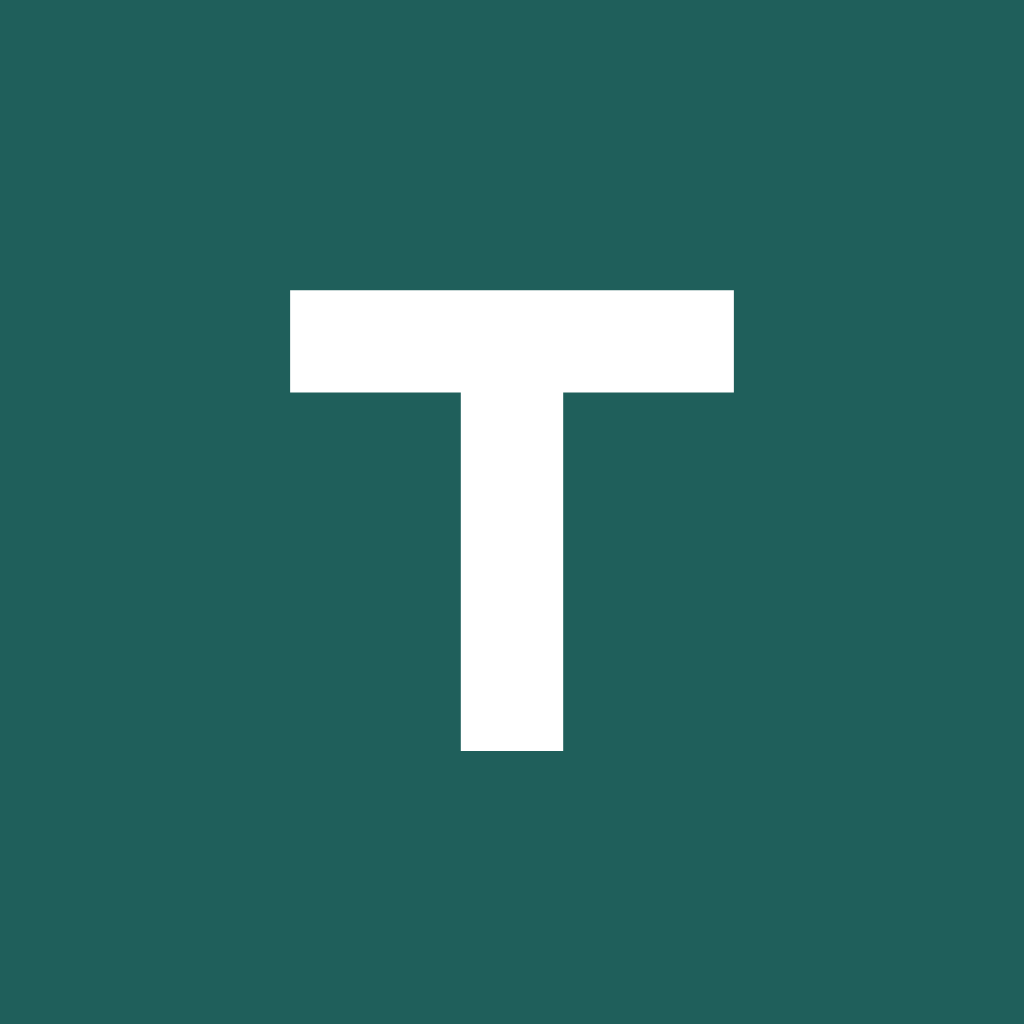
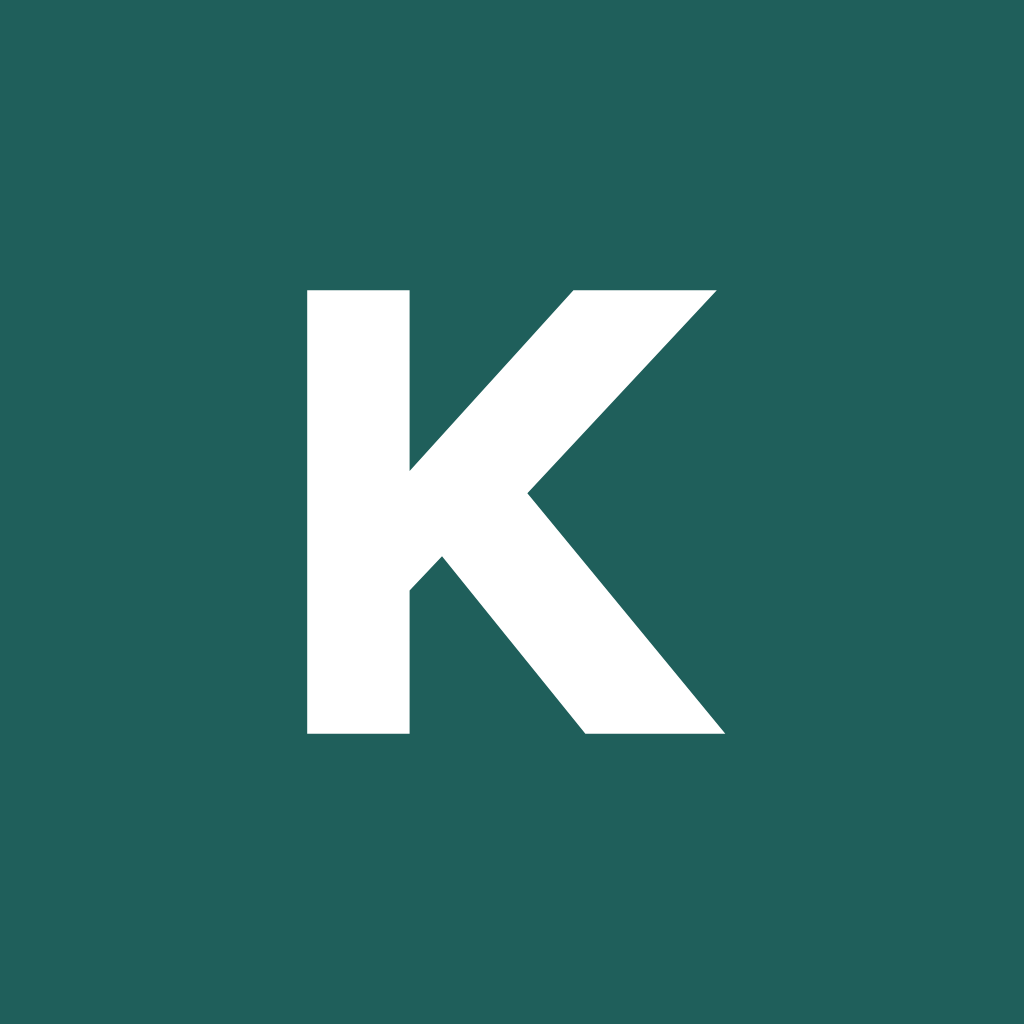
Rebrand from Tidepost to Kanosena
Brand defaults, crawler user agent, the K brand mark (favicon, logo asset,
review-pack app icons) and docs. Domains and infra names are unchanged.

Claude-Session: https://claude.ai/code/session_01Pm9XLxWCyA8mFQ642sudCH

Changed region(s): [[0.2812, 0.2812, 0.7188, 0.75]]

diff --git a/apps/frontend/src/ours/brand/rebrand.spec.ts b/apps/frontend/src/ours/brand/rebrand.spec.ts
@@ -5,34 +5,34 @@ const { rebrand } = require('./rebrand.cjs');
 
 describe('frontend build-time rebrand', () => {
   it('replaces the product name as a whole word', () => {
-    expect(rebrand("title: 'Postiz Calendar'", '/x/page.tsx', 'Tidepost')).toBe(
-      "title: 'Tidepost Calendar'"
+    expect(rebrand("title: 'Postiz Calendar'", '/x/page.tsx', 'Kanosena')).toBe(
+      "title: 'Kanosena Calendar'"
     );
-    expect(rebrand('"Welcome to Postiz"', '/x/en/translation.json', 'Tidepost')).toBe(
-      '"Welcome to Tidepost"'
+    expect(rebrand('"Welcome to Postiz"', '/x/en/translation.json', 'Kanosena')).toBe(
+      '"Welcome to Kanosena"'
     );
   });
 
   it('leaves code, URLs and package names alone', () => {
     for (const s of ['PostizApi', 'MyPostizAgent', 'postiz.com', '@postiz/node', 'gitroomhq/postiz-app']) {
-      expect(rebrand(s, '/x/a.tsx', 'Tidepost')).toBe(s);
+      expect(rebrand(s, '/x/a.tsx', 'Kanosena')).toBe(s);
     }
   });
 
   it('never rewrites third-party testimonials', () => {
     const src = 'I just found out about Postiz';
     expect(
-      rebrand(src, '/r/libraries/react-shared-libraries/src/helpers/testomonials.tsx', 'Tidepost')
+      rebrand(src, '/r/libraries/react-shared-libraries/src/helpers/testomonials.tsx', 'Kanosena')
     ).toBe(src);
   });
 
   it('points upstream legal links at ours', () => {
     const src = "href={`https://postiz.com/terms`} href={`https://postiz.com/privacy`}";
-    expect(rebrand(src, '/x/register.tsx', 'Tidepost')).toBe(
+    expect(rebrand(src, '/x/register.tsx', 'Kanosena')).toBe(
       'href={`/terms.html`} href={`/privacy.html`}'
     );
     expect(
-      rebrand('https://postiz.com/terms', '/x/a.tsx', 'Tidepost', {
+      rebrand('https://postiz.com/terms', '/x/a.tsx', 'Kanosena', {
         'https://postiz.com/terms': 'https://example.co.uk/terms',
       })
     ).toBe('https://example.co.uk/terms');

diff --git a/libraries/nestjs-libraries/src/ours/crawler/website.crawler.spec.ts b/libraries/nestjs-libraries/src/ours/crawler/website.crawler.spec.ts
@@ -109,14 +109,14 @@ describe('page picking and robots.txt', () => {
 
   it('follows the longest matching rule for our agent or *', () => {
     const robots = parseRobots(
-      'User-agent: TidepostBot\nDisallow: /a\nAllow: /a/b\n\nUser-agent: *\nDisallow: /',
-      'TidepostBot/1.0'
+      'User-agent: KanosenaBot\nDisallow: /a\nAllow: /a/b\n\nUser-agent: *\nDisallow: /',
+      'KanosenaBot/1.0'
     );
     expect(robots.isAllowed('/a/x')).toBe(false);
     expect(robots.isAllowed('/a/b/c')).toBe(true);
     expect(robots.isAllowed('/other')).toBe(true);
-    expect(parseRobots('User-agent: *\nDisallow: /', 'TidepostBot').isAllowed('/')).toBe(false);
-    expect(parseRobots('', 'TidepostBot').isAllowed('/')).toBe(true);
+    expect(parseRobots('User-agent: *\nDisallow: /', 'KanosenaBot').isAllowed('/')).toBe(false);
+    expect(parseRobots('', 'KanosenaBot').isAllowed('/')).toBe(true);
   });
 });
 

diff --git a/libraries/nestjs-libraries/src/ours/brand/brand.ts b/libraries/nestjs-libraries/src/ours/brand/brand.ts
@@ -1,6 +1,6 @@
 // OURS: brand name for text the backend sends to customers (emails).
 // Same env variable as the frontend, so one setting renames everything.
-const DEFAULT_BRAND_NAME = 'Tidepost';
+const DEFAULT_BRAND_NAME = 'Kanosena';
 
 export const brandName = (env: NodeJS.ProcessEnv = process.env) =>
   (env.NEXT_PUBLIC_BRAND_NAME || '').trim() || DEFAULT_BRAND_NAME;

diff --git a/libraries/nestjs-libraries/src/ours/brand/brand.spec.ts b/libraries/nestjs-libraries/src/ours/brand/brand.spec.ts
@@ -3,7 +3,7 @@ import { brandName, rebrandText } from '@gitroom/nestjs-libraries/ours/brand/bra
 
 describe('backend rebrand', () => {
   it('uses the env brand name, with a default', () => {
-    expect(brandName({})).toBe('Tidepost');
+    expect(brandName({})).toBe('Kanosena');
     expect(brandName({ NEXT_PUBLIC_BRAND_NAME: 'Acme' })).toBe('Acme');
   });
 

diff --git a/libraries/nestjs-libraries/src/ours/crawler/website.crawler.ts b/libraries/nestjs-libraries/src/ours/crawler/website.crawler.ts
@@ -45,7 +45,7 @@ export interface CrawlOptions {
 }
 
 export const crawlerUserAgent = () => {
-  const brand = (process.env.NEXT_PUBLIC_BRAND_NAME || 'Tidepost').replace(
+  const brand = (process.env.NEXT_PUBLIC_BRAND_NAME || 'Kanosena').replace(
     /[^a-z0-9]/gi,
     ''
   );

diff --git a/ours/docs/platform-review/meta.md b/ours/docs/platform-review/meta.md
@@ -23,7 +23,7 @@ Sources, checked 16/11/2026:
 
 **17/11/2026:** Meta no longer offers "API setup with Instagram login" for newly created apps. Claude in Chrome saw "API setup with Instagram login is not available for newer apps" on the second app. New apps only get the unified login, which runs through Facebook Login for Business. So there is no separate Instagram app ID or secret, and upstream's **Instagram (Standalone)** channel (`instagram-standalone`, `INSTAGRAM_APP_*`) can't be used.
 
-We use **one app, `Tidepost`** (Business type), with "Manage everything on your Page" and "Manage messaging and content on Instagram" → **API setup with Facebook Login**. It powers:
+We use **one app, `Kanosena`** (App ID 1614622909955028, created as "Tidepost" and renamed when the brand was chosen; Business type), with "Manage everything on your Page" and "Manage messaging and content on Instagram" → **API setup with Facebook Login**. It powers:
 - the Facebook Page channel (`facebook`);
 - the Instagram (Facebook Business) channel (`instagram`).
 
@@ -38,22 +38,22 @@ The code checks that **every** permission in its list was granted (`checkScopes`
 ### Facebook Page channel (`facebook.provider.ts`)
 
 **`pages_show_list`**
-> Tidepost is a social media scheduling service for small businesses. After the business owner logs in with Facebook from our "Add Channel" screen, we use pages_show_list to list the Facebook Pages they manage, so they can choose which Page Tidepost should publish to. We store only the chosen Page's ID, name and picture. The owner can disconnect the Page at any time, which deletes its tokens and details.
+> Kanosena is a social media scheduling service for small businesses. After the business owner logs in with Facebook from our "Add Channel" screen, we use pages_show_list to list the Facebook Pages they manage, so they can choose which Page Kanosena should publish to. We store only the chosen Page's ID, name and picture. The owner can disconnect the Page at any time, which deletes its tokens and details.
 
 **`business_management`**
 > Many small businesses manage their Facebook Page through a Meta business portfolio rather than directly. We use business_management only to read the Pages owned by the business portfolios the owner belongs to (/me/businesses and /{business-id}/owned_pages), so those Pages appear in the list they choose from. We do not create, change or read any other business assets.
 
 **`pages_manage_posts`**
-> This is the core of our product. The business owner approves each post in Tidepost (text with an optional photo or video), and at the scheduled time we publish it to the Page they connected. Nothing is ever published without the owner's explicit approval in our app. We also use it to show the owner the post's link once it is live.
+> This is the core of our product. The business owner approves each post in Kanosena (text with an optional photo or video), and at the scheduled time we publish it to the Page they connected. Nothing is ever published without the owner's explicit approval in our app. We also use it to show the owner the post's link once it is live.
 
 **`pages_manage_engagement`**
-> When writing a post in Tidepost, the owner can add a first comment (for example a link or extra details) using "Add comment" in the post editor. Right after the approved post is published, we publish that comment on the post as the Page. We only post comments the owner has written and approved; we do not reply to, hide or delete other people's comments.
+> When writing a post in Kanosena, the owner can add a first comment (for example a link or extra details) using "Add comment" in the post editor. Right after the approved post is published, we publish that comment on the post as the Page. We only post comments the owner has written and approved; we do not reply to, hide or delete other people's comments.
 
 **`pages_read_engagement`**
-> We read the connected Page's basic details (name, picture) and the engagement on posts published through Tidepost (reactions, comments and shares counts), so we can show the owner how their approved posts performed on our "What worked" screen and in each post's Statistics. It is also required by read_insights and pages_manage_posts.
+> We read the connected Page's basic details (name, picture) and the engagement on posts published through Kanosena (reactions, comments and shares counts), so we can show the owner how their approved posts performed on our "What worked" screen and in each post's Statistics. It is also required by read_insights and pages_manage_posts.
 
 **`read_insights`**
-> We read post-level insights (reach and impressions) for posts published through Tidepost, and show them to the business owner on our "What worked" screen and in each post's Statistics window. This helps them see which kinds of posts work for their business. Insights are only shown to members of that business's Tidepost account and are deleted when the Page is disconnected or the account is closed.
+> We read post-level insights (reach and impressions) for posts published through Kanosena, and show them to the business owner on our "What worked" screen and in each post's Statistics window. This helps them see which kinds of posts work for their business. Insights are only shown to members of that business's Kanosena account and are deleted when the Page is disconnected or the account is closed.
 
 ### Instagram (Facebook Business) channel (`instagram.provider.ts`)
 
@@ -61,13 +61,13 @@ The code checks that **every** permission in its list was granted (`checkScopes`
 > After the business owner logs in with Facebook from our "Add Channel" screen and picks "Instagram (Facebook Business)", we use instagram_basic to read the Instagram professional account linked to their Facebook Page (username, name and profile picture), so they can confirm it is the right account. We store only that account's ID, username and picture.
 
 **`instagram_content_publish`**
-> This is the core of our product. The business owner approves each Instagram post in Tidepost (a photo, carousel, Reel or Story with a caption), and at the scheduled time we publish it to their Instagram professional account. Nothing is ever published without the owner's explicit approval in our app.
+> This is the core of our product. The business owner approves each Instagram post in Kanosena (a photo, carousel, Reel or Story with a caption), and at the scheduled time we publish it to their Instagram professional account. Nothing is ever published without the owner's explicit approval in our app.
 
 **`instagram_manage_comments`**
 > When writing a post, the owner can add a first comment using "Add comment" in the post editor. Right after the approved post is published, we publish that comment on it. We only post comments the owner wrote and approved; we do not reply to, hide or delete other people's comments.
 
 **`instagram_manage_insights`**
-> We read insights (reach, likes, comments, saves) for posts published through Tidepost and show them to the business owner on our "What worked" screen and in each post's Statistics window, so they can see which kinds of posts work. Shown only to that business's Tidepost account; deleted when the account is disconnected or closed.
+> We read insights (reach, likes, comments, saves) for posts published through Kanosena and show them to the business owner on our "What worked" screen and in each post's Statistics window, so they can see which kinds of posts work. Shown only to that business's Kanosena account; deleted when the account is disconnected or closed.
 
 **`pages_show_list`, `pages_read_engagement`, `business_management`** (needed by the Instagram channel too)
 > An Instagram professional account is reached through the Facebook Page it is linked to. We use pages_show_list and business_management to find the Pages the owner manages (directly or through their business portfolio), and pages_read_engagement to read the linked Instagram account from that Page. We do not publish to the Page through this channel.
@@ -83,7 +83,7 @@ Replace `<password>` with the test password from the password manager when pasti
 > **Website:** https://app.steadylamp.com
 > **Test login:** review@steadylamp.com / `<password>`
 >
-> Tidepost lets a small business owner approve social media posts, which we then publish at the planned time. Nothing is published without the owner's approval.
+> Kanosena lets a small business owner approve social media posts, which we then publish at the planned time. Nothing is published without the owner's approval.
 >
 > **Connect a Facebook Page (pages_show_list, business_management)**
 > 1. Log in at https://app.steadylamp.com/auth/login with the test login.
@@ -98,7 +98,7 @@ Replace `<password>` with the test password from the password manager when pasti
 > 8. Open the Page on Facebook to see the post and comment.
 >
 > **See results (pages_read_engagement, read_insights)**
-> 9. Back in Tidepost, open the post in the calendar and click "Statistics" to see reach and engagement read from the Page. Insights can take a few minutes to appear after publishing.
+> 9. Back in Kanosena, open the post in the calendar and click "Statistics" to see reach and engagement read from the Page. Insights can take a few minutes to appear after publishing.
 > 10. Click "What worked" in the left menu to see the same results summarised.
 >
 > **Instagram (instagram_basic, instagram_content_publish, instagram_manage_comments, instagram_manage_insights)**
@@ -129,5 +129,5 @@ Meta asks these during App Review and Data Use Checkup. "Platform Data" means an
 
 ## Business Verification and Tech Provider
 
-- **Business Verification** (Business Settings → Security Centre → Start verification). Needs: legal name Steady Lamp Ltd, company number 17533499, registered office 128 City Road, London, EC1V 2NX, phone **[FILL IN]**, website `https://steadylamp.com` (add the Tidepost mention first, see README item 2), and a domain or email check (support@steadylamp.com, or DNS/meta-tag domain verification of steadylamp.com). Meta may ask for a Companies House certificate.
+- **Business Verification** (Business Settings → Security Centre → Start verification). Needs: legal name Steady Lamp Ltd, company number 17533499, registered office 128 City Road, London, EC1V 2NX, phone **[FILL IN]**, website `https://steadylamp.com` (add the Kanosena mention first, see README item 2), and a domain or email check (support@steadylamp.com, or DNS/meta-tag domain verification of steadylamp.com). Meta may ask for a Companies House certificate.
 - **Tech Provider access verification**: App Dashboard → "Become a Tech Provider" (or Review → Access verification). Answers: we build a social media scheduling service that other businesses use to publish to their own Facebook Pages and Instagram accounts; we access their data only to publish posts they approved and show them their own results.

diff --git a/ours/docs/platform-review/linkedin.md b/ours/docs/platform-review/linkedin.md
@@ -41,13 +41,13 @@ Our code requests, on one app, and refuses to connect if any is missing:
 | Legal name | Steady Lamp Ltd |
 | Registered address | 128 City Road, London, EC1V 2NX |
 | Business email | support@steadylamp.com |
-| Website | https://steadylamp.com (add a Tidepost mention first) and the product at https://app.steadylamp.com/about.html |
+| Website | https://steadylamp.com (add a Kanosena mention first) and the product at https://app.steadylamp.com/about.html |
 | Privacy policy | https://app.steadylamp.com/privacy.html |
 | Use cases | **Page Management** and **Page Analytics**. Not Executive Management, Employee Advocacy or Brand Engagement |
 | Use case description | See below |
 
 **Use case description:**
-> Tidepost is a social media service for UK small businesses (1–20 staff), run by Steady Lamp Ltd. A business owner connects their company's LinkedIn Page through LinkedIn's OAuth flow. Tidepost drafts posts from the business's own website, the owner approves, edits or rejects each one, and approved posts are published to the LinkedIn Page at the planned time. Nothing is published without the owner's explicit approval. We then show the owner how each published post performed (impressions, reactions, comments and shares counts) so they can see what works. We use rw_organization_admin to list the Pages the member administers so they can choose one, and to read Page and post analytics; w_organization_social to publish approved posts as the Page; r_organization_social to read the published posts' social action counts. We do not message members, scrape profiles, target ads or sell or share LinkedIn data.
+> Kanosena is a social media service for UK small businesses (1–20 staff), run by Steady Lamp Ltd. A business owner connects their company's LinkedIn Page through LinkedIn's OAuth flow. Kanosena drafts posts from the business's own website, the owner approves, edits or rejects each one, and approved posts are published to the LinkedIn Page at the planned time. Nothing is published without the owner's explicit approval. We then show the owner how each published post performed (impressions, reactions, comments and shares counts) so they can see what works. We use rw_organization_admin to list the Pages the member administers so they can choose one, and to read Page and post analytics; w_organization_social to publish approved posts as the Page; r_organization_social to read the published posts' social action counts. We do not message members, scrape profiles, target ads or sell or share LinkedIn data.
 
 ## Standard tier form answers
 
@@ -55,7 +55,7 @@ Our code requests, on one app, and refuses to connect if any is missing:
 > Steady Lamp Ltd is a UK private limited company (company number 17533499, incorporated 21/10/2026) that builds software for small businesses. Contact: support@steadylamp.com.
 
 **Product overview:**
-> Tidepost (working name) plans, writes and schedules social media posts for small businesses, with the promise "You approve. We handle the rest." It builds a business profile from the company's own website, with a source for every fact, drafts a week of posts with simple branded graphics, and publishes only the posts the owner approves to their connected Facebook Page, Instagram account and LinkedIn Page. It is open source (https://github.com/calvin22580/postiz-app).
+> Kanosena plans, writes and schedules social media posts for small businesses, with the promise "You approve. We handle the rest." It builds a business profile from the company's own website, with a source for every fact, drafts a week of posts with simple branded graphics, and publishes only the posts the owner approves to their connected Facebook Page, Instagram account and LinkedIn Page. It is open source (https://github.com/calvin22580/postiz-app).
 
 **Test credentials:**
 > https://app.steadylamp.com, user review@steadylamp.com, password `<password>` (paste from the password manager). The account has a LinkedIn Page connected **[only once that is true]** and a "Sandbox" channel, which is a simulated channel that never publishes anywhere.
@@ -66,7 +66,7 @@ Our code requests, on one app, and refuses to connect if any is missing:
 > 2. To connect a Page: "Add Channel" → "LinkedIn Page" → LinkedIn OAuth → choose the Page.
 > 3. To post: "Create Post" → select the LinkedIn Page avatar → type text, optionally "Insert Media" → "Post now". The post appears on the LinkedIn Page.
 > 4. Analytics: open the post in the calendar → "Statistics", or open "What worked" in the left menu.
-> 5. Comments by members are not displayed in Tidepost, so the comment and commenter-profile test cases don't apply.
+> 5. Comments by members are not displayed in Kanosena, so the comment and commenter-profile test cases don't apply.
 
 ## Screencast script (one video, narrated)
 
@@ -75,15 +75,15 @@ LinkedIn: high resolution, downloadable (upload the MP4 to a link that downloads
 Same set-up as the Meta screencasts (clean Chrome window, macOS recording). Record after the Development tier is granted and the LinkedIn keys are on the live site.
 
 **Page Management**
-1. Narrate: "This is Tidepost, a social media service for small businesses by Steady Lamp Ltd. A business owner logs in." Log in.
+1. Narrate: "This is Kanosena, a social media service for small businesses by Steady Lamp Ltd. A business owner logs in." Log in.
 2. **Test case 1, OAuth:** "The owner connects their company's LinkedIn Page." Add Channel → LinkedIn Page → full LinkedIn consent screen, showing the permissions → Allow → choose the Page from the list → Page appears in the sidebar.
-3. **Test case 2, post to the Page:** "The owner writes a post, or approves one from their weekly plan, and Tidepost publishes it to the Page." Create Post → select the Page → test text plus a photo → Post now. Then open the Page on linkedin.com and show the post.
+3. **Test case 2, post to the Page:** "The owner writes a post, or approves one from their weekly plan, and Kanosena publishes it to the Page." Create Post → select the Page → test text plus a photo → Post now. Then open the Page on linkedin.com and show the post.
 4. Optional: "Weekly posts" → Approve one draft → show it scheduled in the calendar. Narrate: "Nothing is published without the owner's approval."
-5. **Test cases 3 and 4:** narrate "Tidepost does not display comments or commenter profile data from LinkedIn."
+5. **Test cases 3 and 4:** narrate "Kanosena does not display comments or commenter profile data from LinkedIn."
 6. **Test case 5:** narrate "We store only the Page's ID, name and logo and the member's name and picture for the connection. No other member personal data is used."
 
 **Page Analytics**
-7. **Test case 2, post performance:** "Tidepost shows how each post performed." Open the post → Statistics (impressions, reactions, comments, shares). Then "What worked".
+7. **Test case 2, post performance:** "Kanosena shows how each post performed." Open the post → Statistics (impressions, reactions, comments, shares). Then "What worked".
 8. **Test case 3:** narrate "We show only totals. No profile data of members who engaged is displayed."
 
 Keep it under 5 minutes.

diff --git a/ours/docs/platform-review/chrome-linkedin.md b/ours/docs/platform-review/chrome-linkedin.md
@@ -7,7 +7,7 @@ Important: LinkedIn does not let us re-apply with the same app after a rejection
 ---
 
 ```text
-You are setting up a LinkedIn developer app for Tidepost, a social media scheduling service run by Steady Lamp Ltd (UK). Work in a new tab. Rules:
+You are setting up a LinkedIn developer app for Kanosena, a social media scheduling service run by Steady Lamp Ltd (UK). Work in a new tab. Rules:
 - Do NOT submit any access request form (Community Management API, Standard tier) without showing Calvin the filled-in form and getting a "yes" in chat. A rejection means starting again with a new app.
 - Never type a secret into chat. Copy the client secret only into the Cloudflare form in step 6.
 - If anything asks for a detail not given here (phone, or anything else not listed), stop and ask Calvin.
@@ -16,7 +16,7 @@ You are setting up a LinkedIn developer app for Tidepost, a social media schedul
 - If a screen differs from these steps, do the closest equivalent and tell Calvin.
 
 Values:
-- App name: Tidepost   (must not contain "Linked", "In", "LinkedIn" or "Microsoft")
+- App name: Kanosena   (must not contain "Linked", "In", "LinkedIn" or "Microsoft")
 - LinkedIn Page: Steady Lamp Ltd (the company Page Calvin super-admins)
 - Privacy policy URL: https://app.steadylamp.com/privacy.html
 - Website: https://app.steadylamp.com/about.html
@@ -30,7 +30,7 @@ STEP 1. Page check
 Confirm a LinkedIn Page for Steady Lamp Ltd exists and Calvin's account is a super admin (Page → Admin tools → Manage admins). If not, stop and tell Calvin.
 
 STEP 2. Create the app
-linkedin.com/developers/apps → Create app. Name Tidepost, LinkedIn Page Steady Lamp Ltd, privacy policy URL above, logo, accept the legal agreement. Create.
+linkedin.com/developers/apps → Create app. Name Kanosena, LinkedIn Page Steady Lamp Ltd, privacy policy URL above, logo, accept the legal agreement. Create.
 
 STEP 3. Verify the app with the Page
 Settings tab → Verify → generate the verification URL. Calvin's account is a Page super admin, so open the URL and approve it. Confirm the Settings tab shows the app as verified.
@@ -44,7 +44,7 @@ a. Find "Community Management API" → Request access. Open the form and FILL IT
    - Legal name: Steady Lamp Ltd. Registered address: 128 City Road, London, EC1V 2NX. Business email: support@steadylamp.com (verify it if asked; Calvin may need to click an email link). Website: https://steadylamp.com. Privacy policy: https://app.steadylamp.com/privacy.html
    - Use cases: Page Management and Page Analytics only.
    - Use case description (paste exactly):
-     "Tidepost is a social media service for UK small businesses (1–20 staff), run by Steady Lamp Ltd. A business owner connects their company's LinkedIn Page through LinkedIn's OAuth flow. Tidepost drafts posts from the business's own website, the owner approves, edits or rejects each one, and approved posts are published to the LinkedIn Page at the planned time. Nothing is published without the owner's explicit approval. We then show the owner how each published post performed (impressions, reactions, comments and shares counts) so they can see what works. We use rw_organization_admin to list the Pages the member administers so they can choose one, and to read Page and post analytics; w_organization_social to publish approved posts as the Page; r_organization_social to read the published posts' social action counts. We do not message members, scrape profiles, target ads or sell or share LinkedIn data."
+     "Kanosena is a social media service for UK small businesses (1–20 staff), run by Steady Lamp Ltd. A business owner connects their company's LinkedIn Page through LinkedIn's OAuth flow. Kanosena drafts posts from the business's own website, the owner approves, edits or rejects each one, and approved posts are published to the LinkedIn Page at the planned time. Nothing is published without the owner's explicit approval. We then show the owner how each published post performed (impressions, reactions, comments and shares counts) so they can see what works. We use rw_organization_admin to list the Pages the member administers so they can choose one, and to read Page and post analytics; w_organization_social to publish approved posts as the Page; r_organization_social to read the published posts' social action counts. We do not message members, scrape profiles, target ads or sell or share LinkedIn data."
    Take a screenshot of the filled form for Calvin, then STOP and ask Calvin whether to submit.
 b. Note whether "Sign In with LinkedIn using OpenID Connect" and "Share on LinkedIn" can be added alongside Community Management API. If the page says one disables or excludes the other, do NOT add it; just report the exact wording. If they are self-serve and compatible, add them.
 c. Do NOT add "Advertising API" or any other product.

diff --git a/ours/docs/platform-review/meta-screencasts.md b/ours/docs/platform-review/meta-screencasts.md
@@ -6,7 +6,7 @@ Meta wants one screencast per permission showing "the end-to-end user experience
 
 - Live site has the Meta app IDs and secrets (see `settings.md`) and has been redeployed.
 - Calvin's Facebook account has a role (admin) on the Meta app, so Development mode allows every permission.
-- Facebook Page and linked Instagram professional account ready **[FILL IN: names]**. Use a test post text that is plainly a test, e.g. "Test post from Tidepost: please ignore". It goes live on the real Page, so Calvin approves that wording before recording.
+- Facebook Page and linked Instagram professional account ready **[FILL IN: names]**. Use a test post text that is plainly a test, e.g. "Test post from Kanosena: please ignore". It goes live on the real Page, so Calvin approves that wording before recording.
 - Browser: a clean Chrome window at 1280×800 or larger, English UI, no other tabs or bookmarks bar showing, zoom 100%.
 - Record with macOS screen recording (Cmd+Shift+5, "Record selected portion", the Chrome window only). Export MP4.
 - Add captions afterwards (iMovie titles, or any editor), one short line per step, as below. Captions are in quotes.
@@ -15,12 +15,12 @@ Meta wants one screencast per permission showing "the end-to-end user experience
 ## Video 1: Connecting a Facebook Page
 **Attach to:** `pages_show_list`, `business_management`
 
-1. Start on https://app.steadylamp.com/auth/login. Caption: "Tidepost: a small business owner logs in".
+1. Start on https://app.steadylamp.com/auth/login. Caption: "Kanosena: a small business owner logs in".
 2. Log in with review@steadylamp.com. The calendar opens.
 3. Click "Add Channel". Caption: "The owner connects their Facebook Page".
 4. Click "Facebook Page". The Facebook login dialog opens. Caption: "Facebook Login: the owner grants access".
 5. Go through the dialog, showing the permissions screen, and allow.
-6. Back in Tidepost, the list of Pages appears. Caption: "pages_show_list: Pages the owner manages. Pages owned through a business portfolio are found with business_management". If possible, show a Page that comes from a business portfolio.
+6. Back in Kanosena, the list of Pages appears. Caption: "pages_show_list: Pages the owner manages. Pages owned through a business portfolio are found with business_management". If possible, show a Page that comes from a business portfolio.
 7. Choose the Page. It appears in the left sidebar with its name and picture. Caption: "The Page is connected. Only its ID, name and picture are stored".
 
 ## Video 2: Publishing to the Page with a first comment
@@ -29,8 +29,8 @@ Meta wants one screencast per permission showing "the end-to-end user experience
 1. Start logged in, Page already connected. Caption: "The owner writes a post and approves it".
 2. Click "Create Post". Select the Facebook Page avatar.
 3. Type the test text. Click "Insert Media" and add one photo.
-4. Click "Add comment" and type "First comment from Tidepost: please ignore". Caption: "pages_manage_engagement: a first comment the owner wrote".
-5. Click "Post now". Caption: "pages_manage_posts: Tidepost publishes the approved post to the Page".
+4. Click "Add comment" and type "First comment from Kanosena: please ignore". Caption: "pages_manage_engagement: a first comment the owner wrote".
+5. Click "Post now". Caption: "pages_manage_posts: Kanosena publishes the approved post to the Page".
 6. Show the post in the calendar with its status.
 7. Open the Page on facebook.com in the same window. Show the post and the comment underneath, posted as the Page. Caption: "The post and first comment are live on the Page".
 8. (Optional, 20 seconds) Open "Weekly posts", show a drafted post, click Approve. Caption: "Normally posts come from the weekly plan. Nothing is published until the owner approves it".
@@ -52,7 +52,7 @@ Record at least an hour after video 2 (insights take time; the app rechecks afte
 3. Click "Create Post", select the Instagram avatar, add a photo, a caption, and "Add comment" with a comment.
 4. Click "Post now". Caption: "instagram_content_publish and instagram_manage_comments: the approved post and its first comment".
 5. Open the account on instagram.com, show the post and comment.
-6. (After an hour, can be a cut) Back in Tidepost: post "Statistics", then "What worked". Caption: "instagram_manage_insights: results for this post".
+6. (After an hour, can be a cut) Back in Kanosena: post "Statistics", then "What worked". Caption: "instagram_manage_insights: results for this post".
 
 ## Narration (optional)
 

diff --git a/ours/docs/platform-review/README.md b/ours/docs/platform-review/README.md
@@ -17,7 +17,7 @@ Everything needed to set up the developer apps and submit the reviews for Facebo
 | [linkedin.md](linkedin.md) | LinkedIn: products, form answers, use cases, reviewer instructions, screencast script |
 | [chrome-meta.md](chrome-meta.md) | Prompt to paste into Claude in Chrome after logging in to Meta |
 | [chrome-linkedin.md](chrome-linkedin.md) | Prompt to paste into Claude in Chrome after logging in to LinkedIn |
-| `assets/app-icon-1024.png`, `assets/app-icon-300.png` | Placeholder app icon (Meta wants 1024×1024; LinkedIn wants a square logo) |
+| `assets/app-icon-1024.png`, `assets/app-icon-300.png` | Kanosena app icon (Meta wants 1024×1024; LinkedIn wants a square logo) |
 
 ## The order
 
@@ -32,13 +32,13 @@ Everything needed to set up the developer apps and submit the reviews for Facebo
 |---|---|
 | No public page describing the product. `/` shows "Registration is disabled" with no privacy or terms links. Meta and LinkedIn both ask for a website, and reviewers look for the privacy policy | **Fixed:** new public page `/about.html` (what the service does, what each platform is used for, links to log-in and legal pages). Use it as the app's website URL |
 | Log-in page had no privacy, terms or data deletion links | **Fixed:** links added under the panel on the log-in and sign-up pages |
-| No app icon at the sizes the dashboards ask for | **Fixed:** placeholder icons in `assets/` (swap when the brand is chosen) |
+| No app icon at the sizes the dashboards ask for | **Fixed:** Kanosena icons in `assets/` |
 | Data deletion: Meta wants an instructions URL or a callback | Already there: `/data-deletion.html` (instructions URL). Real erasure exists since PR #12. A signed callback is not needed |
 
 ## Still open (not fixed here)
 
 1. **Legal pages say "Draft … not yet in force".** A reviewer can reject a privacy policy that says it is not in force. Company number and registered address are filled in (17/11/2026). Publication date and processor details filled in too. Still needs the ICO registration number and a legal review, then `NEXT_PUBLIC_LEGAL_REVIEWED=true`. **Do this before submitting any review.** Setting up the apps can go ahead now.
-2. **steadylamp.com does not mention the product.** It only shows Life in the UK Questions. LinkedIn verifies the organisation's website and Meta checks the business. Add a short "Tidepost" entry (one line and a link to `https://app.steadylamp.com/about.html`) to the steadylamp.com site. This is Calvin's own site, outside this repo.
+2. **steadylamp.com does not mention the product.** It only shows Life in the UK Questions. LinkedIn verifies the organisation's website and Meta checks the business. Add a short "Kanosena" entry (one line and a link to `https://app.steadylamp.com/about.html`) to the steadylamp.com site. This is Calvin's own site, outside this repo.
 3. **One Meta app, no Instagram (Standalone).** Meta no longer offers Instagram Login to new apps (found 17/11/2026), so only the Instagram channel that goes through a linked Facebook Page works. Customers need their Instagram professional account linked to a Facebook Page. The standalone channel is hidden on the live site. A second app, "Tidepost Business", was created before this was found and is left unused on Calvin's instruction (see `meta.md`).
 4. **LinkedIn product clash (risk, unconfirmed).** A developer reports that **Community Management API** and **Sign In with LinkedIn using OpenID Connect** cannot both be on one app. Our code asks for `openid` and `profile` (from OpenID Connect) and the organisation scopes (from Community Management) on one app, and refuses to connect if any is missing. The Chrome prompt checks this and reports back. If it is true, a small change in our own files is needed (a LinkedIn provider that gets the name and picture from `r_basicprofile` instead of `openid`/`profile`). See `linkedin.md`.
 5. **Facebook Login for Business prefers a configuration ID.** Our code sends the classic `scope` list. Meta says for user tokens "scope can still be included, we recommend that you do not use it". So it should work. If the login dialog refuses it during setup, the fix is a configuration ID, which needs a code change.

diff --git a/PLATFORM_APPROVALS.md b/PLATFORM_APPROVALS.md
@@ -1,6 +1,6 @@
 # PLATFORM_APPROVALS.md
 
-What we need to apply for so Tidepost (placeholder brand) can publish to Facebook, Instagram and LinkedIn for customers.
+What we need to apply for so Kanosena can publish to Facebook, Instagram and LinkedIn for customers.
 
 - **Checked against:** upstream Postiz **v2.26.0** code and the official docs linked below, on 15/11/2026.
 - **Scopes, callback URLs and env var names** are copied from the code. File references point at `libraries/nestjs-libraries/src/integrations/social/`.
@@ -10,7 +10,7 @@ What we need to apply for so Tidepost (placeholder brand) can publish to Faceboo
 >
 > **17/11/2026: Instagram (Standalone) is not available to us.** Meta no longer offers "API setup with Instagram login" for new apps (only the unified login through Facebook Login for Business), so there is no Instagram app ID or secret for `instagram-standalone`. We use one Meta app for Facebook and for Instagram via a linked Facebook Page (section 2a). Customers need an Instagram professional account linked to a Page. Section 2b and the "apply for both" recommendation below are out of date.
 
-Throughout, `FRONTEND_URL` means the public URL customers use for the app, for example `https://app.tidepost.example`. Callback URLs are built from it, so it must be the final production domain before you register the URLs.
+Throughout, `FRONTEND_URL` means the public URL customers use for the app, for example `https://app.kanosena.com`. Callback URLs are built from it, so it must be the final production domain before you register the URLs.
 
 ---
 
@@ -21,7 +21,7 @@ Both Meta and LinkedIn vet the **business**, not just the app. These are the slo
 | Need | Meta | LinkedIn | Notes |
 |---|---|---|---|
 | A registered legal entity (for example a UK Ltd company) | Needed for Business Verification | **Required.** "Only available to registered legal organizations for commercial use cases only" | If you trade as a sole trader, confirm whether that is accepted before applying. **UNVERIFIED for sole traders.** |
-| Business email on your own domain | Strongly advised | **Required.** Personal addresses "won't pass the vetting process" | e.g. `you@tidepost.example`, not Gmail |
+| Business email on your own domain | Strongly advised | **Required.** Personal addresses "won't pass the vetting process" | e.g. `you@kanosena.com`, not Gmail |
 | Public website on that domain | Needed | Needed: website and domain are verified | Can be a one-page site |
 | Privacy policy URL | Required in App Settings | Required for Standard tier | Must say how users can ask for their data to be deleted. **Draft ready:** `https://<app domain>/privacy.html` (fill in company details first) |
 | Terms of service URL | Asked for in App Settings | Asked for | **Draft ready:** `https://<app domain>/terms.html` |
@@ -31,7 +31,7 @@ Both Meta and LinkedIn vet the **business**, not just the app. These are the slo
 | A running, publicly reachable instance | Reviewers must be able to test it | Needed for the Standard tier screencast | Not needed to *start* applications. Needed before you submit for review |
 | Test login for reviewers | Required | Required for Standard tier | A reviewer account on the deployed instance |
 
-**Brand rules for app names:** LinkedIn rejects apps whose name or logo includes any part of "LinkedIn" or "Microsoft" (for example "Linked" or "In"). Keep "Tidepost", or the final brand, as the app name on both platforms.
+**Brand rules for app names:** LinkedIn rejects apps whose name or logo includes any part of "LinkedIn" or "Microsoft" (for example "Linked" or "In"). Keep "Kanosena", or the final brand, as the app name on both platforms.
 
 ---
 

diff --git a/ours/docs/platform-review/chrome-meta.md b/ours/docs/platform-review/chrome-meta.md
@@ -7,7 +7,7 @@
 ---
 
 ```text
-You are setting up a Meta developer app for Tidepost, a social media scheduling service run by Steady Lamp Ltd (UK). Work in a new tab. Follow these rules:
+You are setting up a Meta developer app for Kanosena, a social media scheduling service run by Steady Lamp Ltd (UK). Work in a new tab. Follow these rules:
 - Do NOT submit anything for App Review, do NOT click Publish / Go Live, and do NOT start Business Verification without asking Calvin first in chat.
 - Never type a secret into chat or a note. Copy App IDs and secrets only into the Cloudflare form in step 5.
 - If a field asks for something not given here (phone number, or anything else not listed), stop and ask Calvin.
@@ -26,8 +26,8 @@ Values:
 - Category: Business and pages
 - Icon: app-icon-1024.png (downloaded above)
 
-STEP 1. App 1, name "Tidepost"
-a. developers.facebook.com/apps → Create app. Name "Tidepost", contact email support@steadylamp.com.
+STEP 1. App 1, name "Kanosena"
+a. developers.facebook.com/apps → Create app. Name "Kanosena", contact email support@steadylamp.com.
 b. Use cases: choose "Manage everything on your Page" AND "Manage messaging and content on Instagram". App type Business if asked. Connect it to the Steady Lamp Ltd business portfolio.
 c. Customise "Manage everything on your Page": keep business_management, pages_show_list, public_profile; ADD pages_manage_posts, pages_manage_engagement, pages_read_engagement, read_insights. Add nothing else.
 d. Customise "Manage messaging and content on Instagram": choose "API setup with Facebook login". Keep/ADD instagram_basic, instagram_content_publish, instagram_manage_comments, instagram_manage_insights, pages_show_list, pages_read_engagement, business_management. REMOVE instagram_manage_messages and any other messaging permission if allowed. Tell Calvin if something can't be removed.
@@ -52,5 +52,5 @@ dash.cloudflare.com → Workers & Pages → the Worker serving app.steadylamp.co
    FACEBOOK_APP_SECRET = App 1 App secret
 Deploy/save. Do not show the values in chat.
 
-STEP 6. Report to Calvin in chat (no secrets): the Tidepost App ID (not secret), which permissions it has and anything that could not be added or removed, the redirect URIs as saved, Business Verification status and what it needs, the Tech Provider requirements, and anything that looked different from these steps. Calvin will paste this report back to Claude.
+STEP 6. Report to Calvin in chat (no secrets): the Kanosena App ID (not secret), which permissions it has and anything that could not be added or removed, the redirect URIs as saved, Business Verification status and what it needs, the Tech Provider requirements, and anything that looked different from these steps. Calvin will paste this report back to Claude.
 ```
